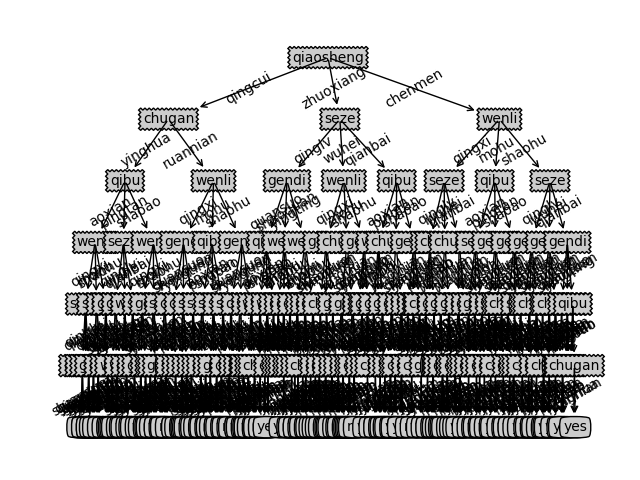
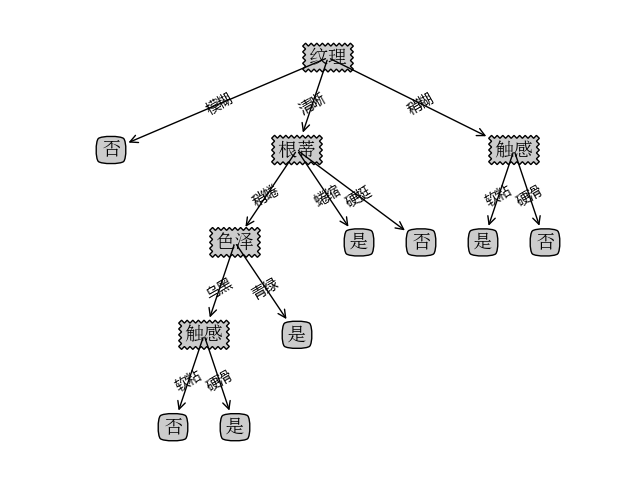
解决matplotlib绘制中文决策树的问题

diff --git a/templates/index.html b/templates/index.html
@@ -32,9 +32,9 @@
                <label for="imputSeze" class="col-sm-2 control-label">色泽</label>
                <div class="col-sm-2">
                    <select class="form-control" name="seze">
-                       <option>qinglv</option>
-                       <option>wuhei</option>
-                       <option>qianbai</option>
+                       <option>青绿</option>
+                       <option>乌黑</option>
+                       <option>浅白</option>
                    </select>
                </div>
            </div>
@@ -42,9 +42,9 @@
                <label for="imputGendi" class="col-sm-2 control-label">根蒂</label>
                <div class="col-sm-2">
                    <select class="form-control" name="gendi">
-                       <option>quansuo</option>
-                       <option>shaoquan</option>
-                       <option>yingting</option>
+                       <option>蜷缩</option>
+                       <option>稍蜷</option>
+                       <option>硬挺</option>
                    </select>
                </div>
            </div>
@@ -52,9 +52,9 @@
                <label for="imputQiaosheng" class="col-sm-2 control-label">敲声</label>
                <div class="col-sm-2">
                    <select class="form-control" name="qiaosheng">
-                       <option>zhuoxiang</option>
-                       <option>chenmen</option>
-                       <option>qingcui</option>
+                       <option>浊响</option>
+                       <option>沉闷</option>
+                       <option>清脆</option>
                    </select>
                </div>
            </div>
@@ -62,9 +62,9 @@
                <label for="imputWenli" class="col-sm-2 control-label">纹理</label>
                <div class="col-sm-2">
                    <select class="form-control" name="wenli">
-                       <option>qingxi</option>
-                       <option>shaohu</option>
-                       <option>mohu</option>
+                       <option>清晰</option>
+                       <option>稍糊</option>
+                       <option>模糊</option>
                    </select>
                </div>
            </div>
@@ -72,9 +72,9 @@
                <label for="imputQibu" class="col-sm-2 control-label">脐部</label>
                <div class="col-sm-2">
                    <select class="form-control" name="qibu">
-                       <option>aoxian</option>
-                       <option>shaoao</option>
-                       <option>pingtan</option>
+                       <option>凹陷</option>
+                       <option>稍凹</option>
+                       <option>平坦</option>
                    </select>
                </div>
            </div>
@@ -82,8 +82,8 @@
                <label for="imputChugan" class="col-sm-2 control-label">触感</label>
                <div class="col-sm-2">
                    <select class="form-control" name="chugan">
-                       <option>yinghua</option>
-                       <option>ruannian</option>
+                       <option>硬滑</option>
+                       <option>软粘</option>
                    </select>
                </div>
            </div>

diff --git a/source_code/treePlotter.py b/source_code/treePlotter.py
@@ -6,6 +6,14 @@ Created on Oct 14, 2010
 
 import matplotlib.pyplot as plt
 
+import matplotlib.pyplot as plt
+from matplotlib.font_manager import FontProperties
+font = FontProperties(fname=r"c:\windows\fonts\simsun.ttc", size=14)
+
+import sys
+reload(sys)
+sys.setdefaultencoding('gbk')
+
 decisionNode = dict(boxstyle="sawtooth", fc="0.8")
 leafNode = dict(boxstyle="round4", fc="0.8")
 arrow_args = dict(arrowstyle="<-")
@@ -42,7 +50,7 @@ def getTreeDepth(myTree):
 def plotNode(nodeTxt, centerPt, parentPt, nodeType):
     createPlot.ax1.annotate(nodeTxt, xy=parentPt,  xycoords='axes fraction',
              xytext=centerPt, textcoords='axes fraction',
-             va="center", ha="center", bbox=nodeType, arrowprops=arrow_args)
+             va="center", ha="center", bbox=nodeType, arrowprops=arrow_args, fontproperties=font)
 
 
 def plotMidText(cntrPt, parentPt, txtString):

diff --git a/decision_tree.py b/decision_tree.py
@@ -58,9 +58,12 @@ def uploaded_file(filename):
 # 获取数据
 def gain_data():
     # url_file = os.path.join(basedir, app.config['UPLOAD_FOLDER'])
-    fr = open('D:\PyCharm\decision_tree\source_code\listcan.txt')
+    fr = open('D:\PyCharm\decision_tree\upload\\xiguadata3.txt')
     lenses = [inst.strip().split('\t') for inst in fr .readlines()]
-    lensesLables = ['seze', 'gendi', 'qiaosheng', 'wenli', 'qibu', 'chugan']
+    fp = open('D:\PyCharm\decision_tree\upload\\xigualabel.txt')
+    lensesLableses = [inst.strip().split('\t') for inst in fp.readlines()]
+    lensesLables = lensesLableses[0]
+    # lensesLables = ['seze', 'gendi', 'qiaosheng', 'wenli', 'qibu', 'chugan']
     return lenses, lensesLables
 
 
